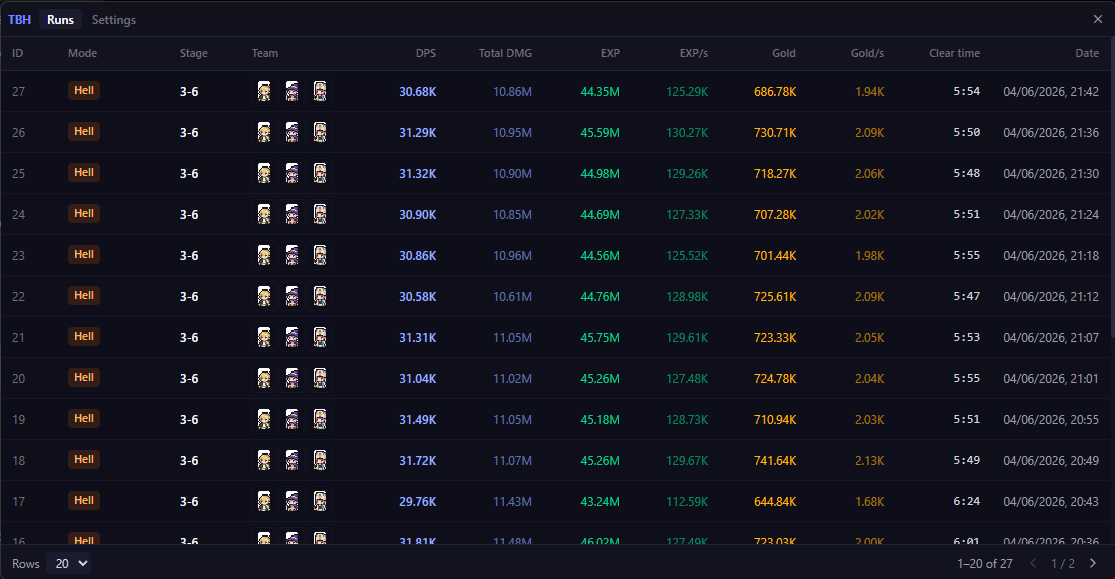
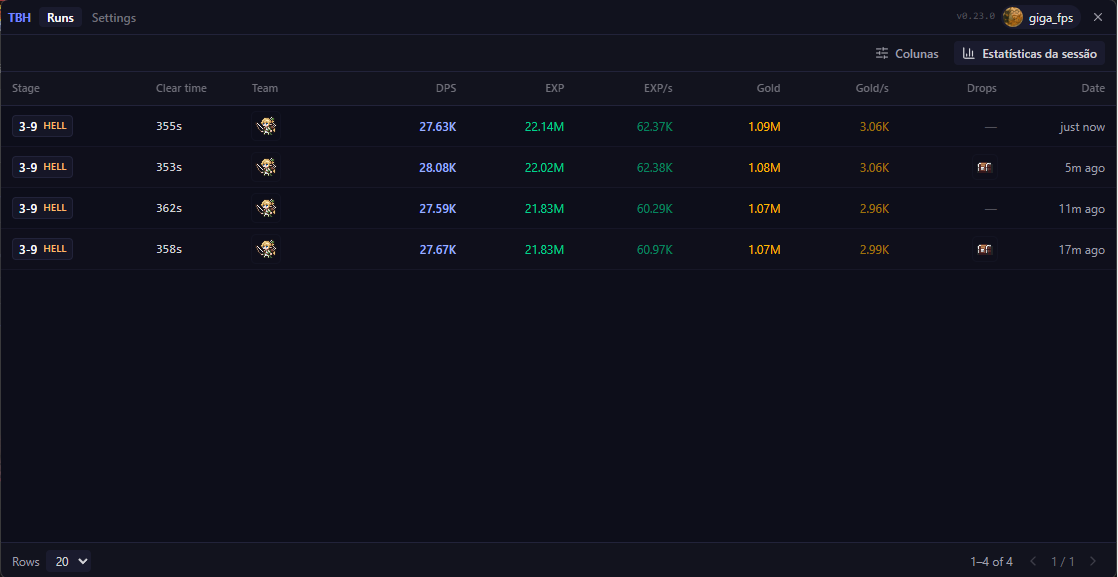
docs: update README screenshots and add live overlay image

diff --git a/README.md b/README.md
@@ -27,11 +27,17 @@ TBH Meter is a lightweight, always-on-top overlay that tracks your **Task Bar He
 | **MOBS** | Monsters killed / total |
 | **TIME** | Elapsed run time |
 
+<div align="center">
+
+![Live overlay — stage, DPS, kills, damage, gold/s, XP/s and run time](.github/assets/live-overlay.png)
+
+</div>
+
 Every completed run is also saved with full details — result (success / fail / abandoned), gold & XP gained, gold/XP per second, and a complete snapshot of your heroes (class, level, items, mods, skills, and stats) — browsable from the built-in **Runs** window:
 
 <div align="center">
 
-![Runs window — per-run DPS, damage, XP, gold and clear time](.github/assets/runs-window.png)
+![Runs window — per-run DPS, XP, gold, drops and clear time](.github/assets/runs-window.png)
 
 </div>
 